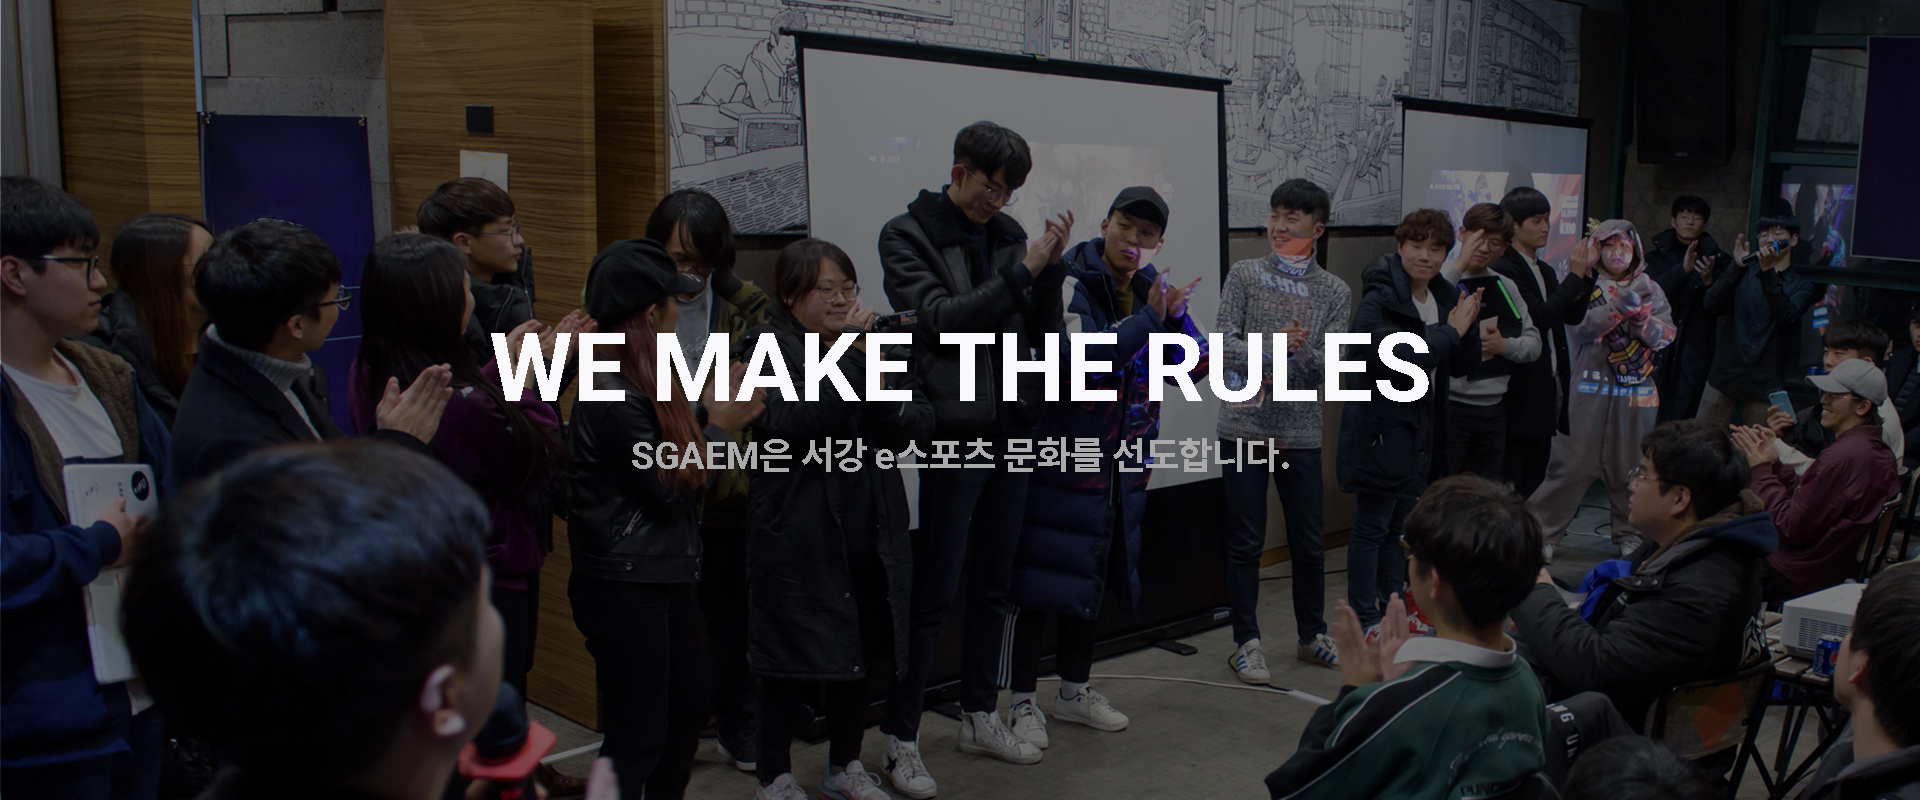
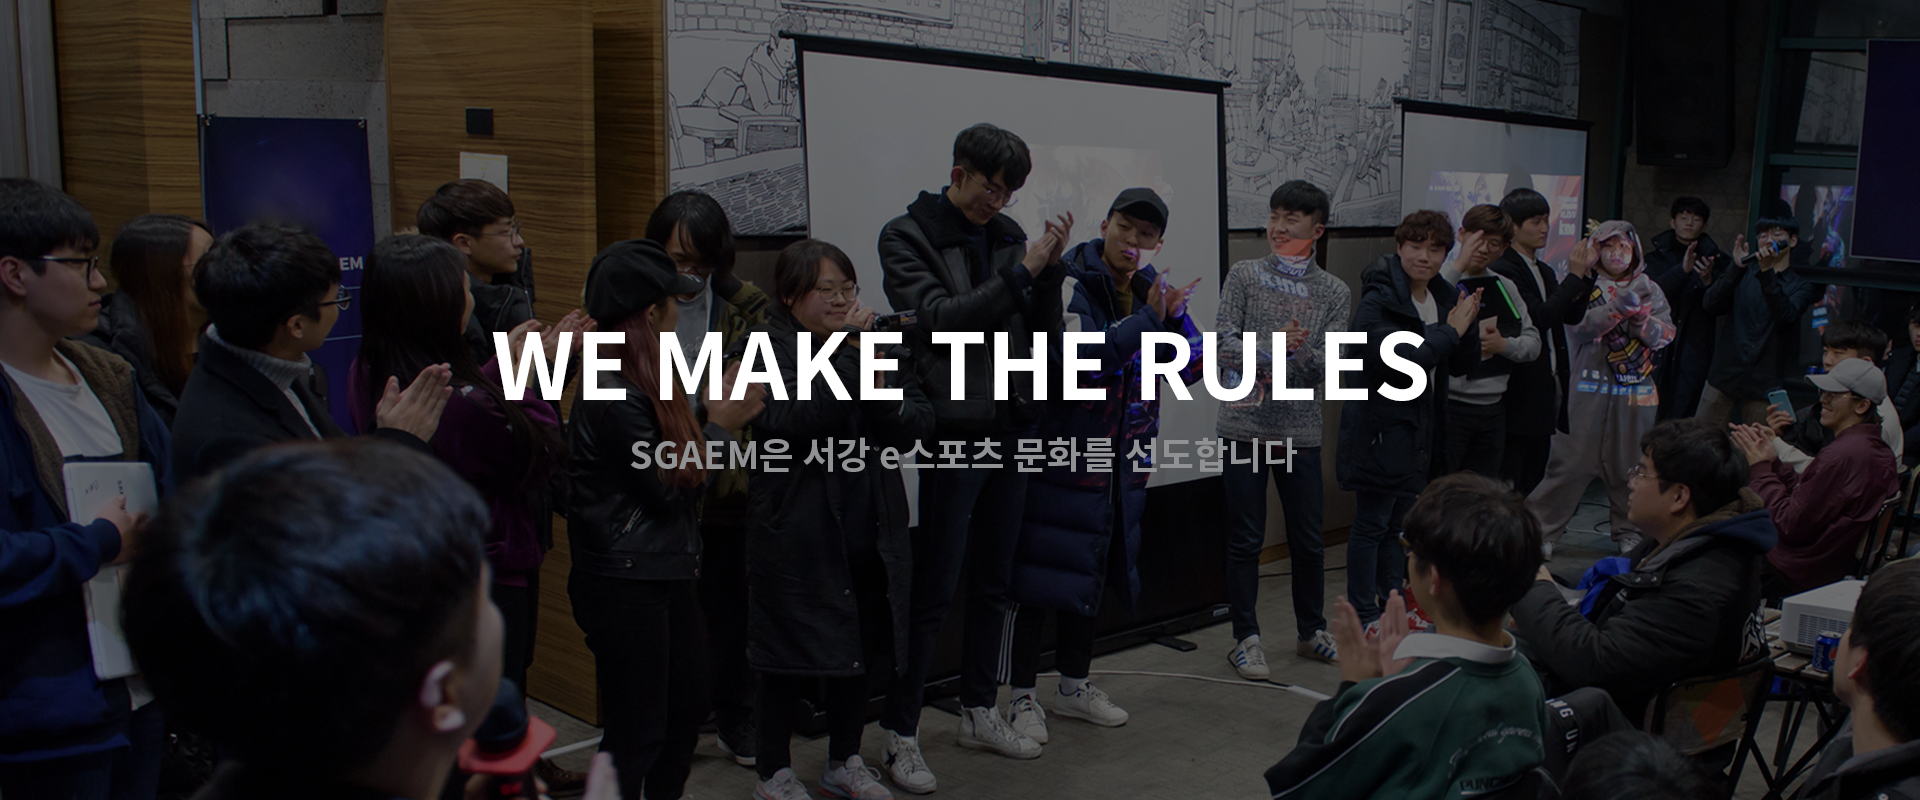
img changed

diff --git a/src/pages/Mainpage_tmp.js b/src/pages/Mainpage_tmp.js
@@ -3,15 +3,19 @@ import YouTube from "react-youtube";
 import axios from "axios";
 import Carousel from "react-bootstrap/Carousel";
 
-import img1 from "../assets/main_banner_1.png";
+// import img1 from "../assets/main_banner_1.png";
+import img1 from "../assets/main_banner_1_final.png";
 import img2 from "../assets/main_banner_recruit.png";
 import img3 from "../assets/main_banner_comp.png";
 
 import img_vis_src from "../assets/main_2nd.png";
-import img_src_act_comp from "../assets/meeting_pic/main_activity/comp_open.png";
+// import img_src_act_comp from "../assets/meeting_pic/main_activity/comp_open.png";
 import img_src_content from "../assets/meeting_pic/main_activity/content_making.png";
-import img_src_foreign from "../assets/meeting_pic/main_activity/foreign_cooperate.png";
+// import img_src_foreign from "../assets/meeting_pic/main_activity/foreign_cooperate.png";
 import img_src_networking from "../assets/meeting_pic/main_activity/networking.png";
+
+import img_src_main_act_1 from "../assets/main_activity_2.png";
+import img_src_main_act_3 from "../assets/main_activity_1.png";
 
 // style import
 import {
@@ -133,7 +137,7 @@ const MainpageTmp = () => {
           </ActivitySubTextContainer>
           <ActivityContentContainer>
             <ActivityContent>
-              <ActivityImg src={img_src_act_comp}></ActivityImg>
+              <ActivityImg src={img_src_main_act_1}></ActivityImg>
               <ActivityArticle>
                 <ActivityArticleText>대회 개최</ActivityArticleText>
                 <ActivityArticleSubText>
@@ -153,7 +157,7 @@ const MainpageTmp = () => {
               </ActivityArticle>
             </ActivityContent>
             <ActivityContent>
-              <ActivityImg src={img_src_foreign}></ActivityImg>
+              <ActivityImg src={img_src_main_act_3}></ActivityImg>
               <ActivityArticle>
                 <ActivityArticleText>대외 협업</ActivityArticleText>
                 <ActivityArticleSubText>

diff --git a/src/pages/TopBar.js b/src/pages/TopBar.js
@@ -65,13 +65,7 @@ const TopBar = () => {
               <StyledLink
                 to="/logout"
                 onClick={() =>
-                  setTimeout(() =>
-                    enqueueSnackbar(
-                      "로그아웃 성공!",
-                      { variant: "success" },
-                      1500
-                    )
-                  )
+                  enqueueSnackbar("로그아웃 성공!", { variant: "success" })
                 }
               >
                 <AuthButton>로그아웃</AuthButton>

diff --git a/src/pages/LogoutPage.js b/src/pages/LogoutPage.js
@@ -1,7 +1,7 @@
 import React from "react";
 import axios from "axios";
 
-const LogoutPage = ({ history }) => {
+const LogoutPage = () => {
   axios
     .get(`${process.env.REACT_APP_BACKEND_ADDRESS}/auth/logout`, {
       withCredentials: true,
